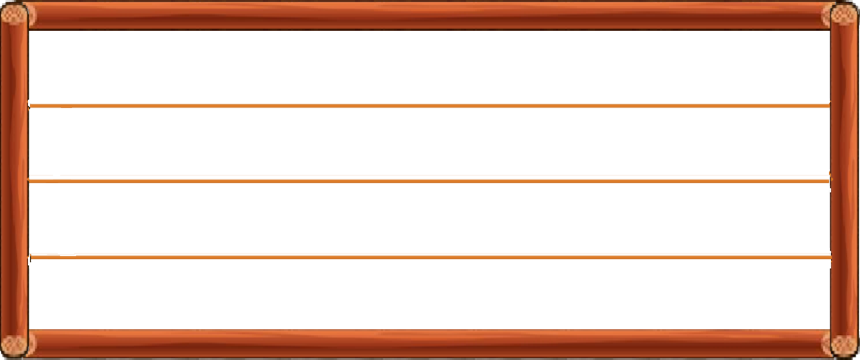
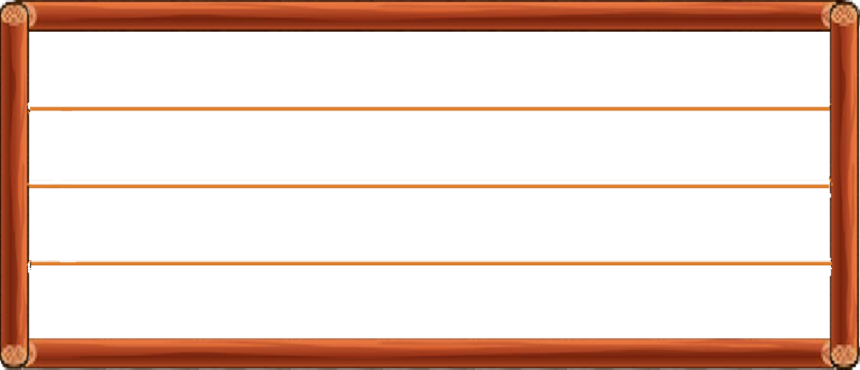
s

Changed region(s): [[0.0302, 0.7028, 0.9674, 0.7333]]

diff --git a/Fischer/game/src/game/gameobject/scene_manager/scene/characterselect/characterselect.cpp b/Fischer/game/src/game/gameobject/scene_manager/scene/characterselect/characterselect.cpp
@@ -16,7 +16,7 @@ void CharacterSelect::Initialize(void)
 {
 	m_CharacterPosition = new vivid::Vector2[m_max_character];
 	m_FlamePosition = new vivid::Vector2[m_max_player];
-	m_CullentSelect = new CHARACTER_ID[m_max_player];
+	m_CullentSelect = new int[m_max_player];
 
 	for (int i = 0; i < m_max_character; ++i)
 	{
@@ -32,7 +32,7 @@ void CharacterSelect::Initialize(void)
 
 	for (int i = 0; i < m_max_player; ++i)
 	{
-		m_CullentSelect[i] = CHARACTER_ID::DUMMY;
+		m_CullentSelect[i] = (int)CHARACTER_ID::DUMMY;
 
 		m_FlamePosition[i].x = GetFlamePosition(0).x;
 		m_FlamePosition[i].y = GetFlamePosition(0).y;
@@ -95,11 +95,21 @@ void CharacterSelect::Finalize(void)
 {
 }
 
+void CharacterSelect::SetCullentSelect(int cullent)
+{
+	m_CullentSelect[0] = cullent;
+}
+
 void CharacterSelect::Keyboard(void)
 {
 	if (vivid::keyboard::Trigger(vivid::keyboard::KEY_ID::D) || vivid::keyboard::Trigger(vivid::keyboard::KEY_ID::RIGHT))
 	{
+		m_CullentSelect++;
 
+		if (m_CullentSelect[0] > 5)
+			m_CullentSelect = 0;
+
+		m_FlamePosition[0] = GetFlamePosition((int)m_CullentSelect[0]);
 	}
 	if (vivid::keyboard::Trigger(vivid::keyboard::KEY_ID::A) || vivid::keyboard::Trigger(vivid::keyboard::KEY_ID::LEFT))
 	{
@@ -117,8 +127,8 @@ void CharacterSelect::Keyboard(void)
 
 vivid::Vector2 CharacterSelect::GetFlamePosition(int num)
 {
-	float CenterPositionX = m_CharacterPosition[num].x + CharacterManager::GetInstance().CharacterWIDTH(CHARACTER_ID::TUNA) / 2.0f;
-	float CenterPositionY = m_CharacterPosition[num].y + CharacterManager::GetInstance().CharacterHEIGHT(CHARACTER_ID::TUNA) / 2.0f;
+	float CenterPositionX = m_CharacterPosition[num + 1].x + CharacterManager::GetInstance().CharacterWIDTH(CHARACTER_ID::TUNA) / 2.0f;
+	float CenterPositionY = m_CharacterPosition[num + 1].y + CharacterManager::GetInstance().CharacterHEIGHT(CHARACTER_ID::TUNA) / 2.0f;
 
 	float FlamePositionX = CenterPositionX - m_flame_width / 2.0f;
 	float FlamePositionY = CenterPositionY - m_flame_height / 2.0f;

diff --git a/Fischer/game/src/game/gameobject/scene_manager/scene/gamemain/gamemain.h b/Fischer/game/src/game/gameobject/scene_manager/scene/gamemain/gamemain.h
@@ -13,5 +13,20 @@ public:
 	void Finalize(void) override;
 
 private:
-	static const float		water_surface;
+	struct UseCharacter
+	{
+		CHARACTER_ID* Character;
+	};
+
+	static const int		m_max_player;
+	static const int		m_max_fish;
+	static const float		m_water_surface;
+
+	UseCharacter*	m_UseCharacter;
+
+	//{ {CHARACTER_ID::TUNA,CHARACTER_ID::DUMMY,CHARACTER_ID::DUMMY}/*,*/
+	//	//{CHARACTER_ID::ELSCTRICEEL,CHARACTER_ID::DUMMY,CHARACTER_ID::DUMMY},
+	//	//{CHARACTER_ID::SHARK,CHARACTER_ID::DUMMY,CHARACTER_ID::DUMMY},
+	//	//{CHARACTER_ID::TURTLE,CHARACTER_ID::DUMMY,CHARACTER_ID::DUMMY}
+	//};
 };

diff --git a/Fischer/game/src/game/gameobject/scene_manager/scene_manager.h b/Fischer/game/src/game/gameobject/scene_manager/scene_manager.h
@@ -20,6 +20,8 @@ public:
 
 	void Change_scene(SCENE_ID next_scene);
 
+	SCENE_ID GetCullentSceneId();
+
 private:
 
 	void Change(void);
@@ -31,7 +33,7 @@ private:
 	SceneManager& operator=(const SceneManager& rhs);
 
 	IScene* Iscene;
-	SCENE_ID Current_scene_id;
-	SCENE_ID Next_scene_id;
+	SCENE_ID m_CurrentSceneId;
+	SCENE_ID m_NextSceneId;
 };
 

diff --git a/Fischer/game/src/game/gameobject/character_manager/characterID.h b/Fischer/game/src/game/gameobject/character_manager/characterID.h
@@ -4,15 +4,15 @@
 enum class CHARACTER_ID
 {
 	DUMMY,
-	ELSCTRICEEL,
-	PORCUPINEFISH,
-	SHARK,
+	TUNA,
+	POINTUNA,
 	LIONFISH,
 	MIRRORMORAYELL,
+	PORCUPINEFISH,
+	ELSCTRICEEL,
 	TURTLE,
 	OCTOPUS,
-	POINTUNA,
-	TUNA,
+	SHARK,
 
 	MAX
 };
